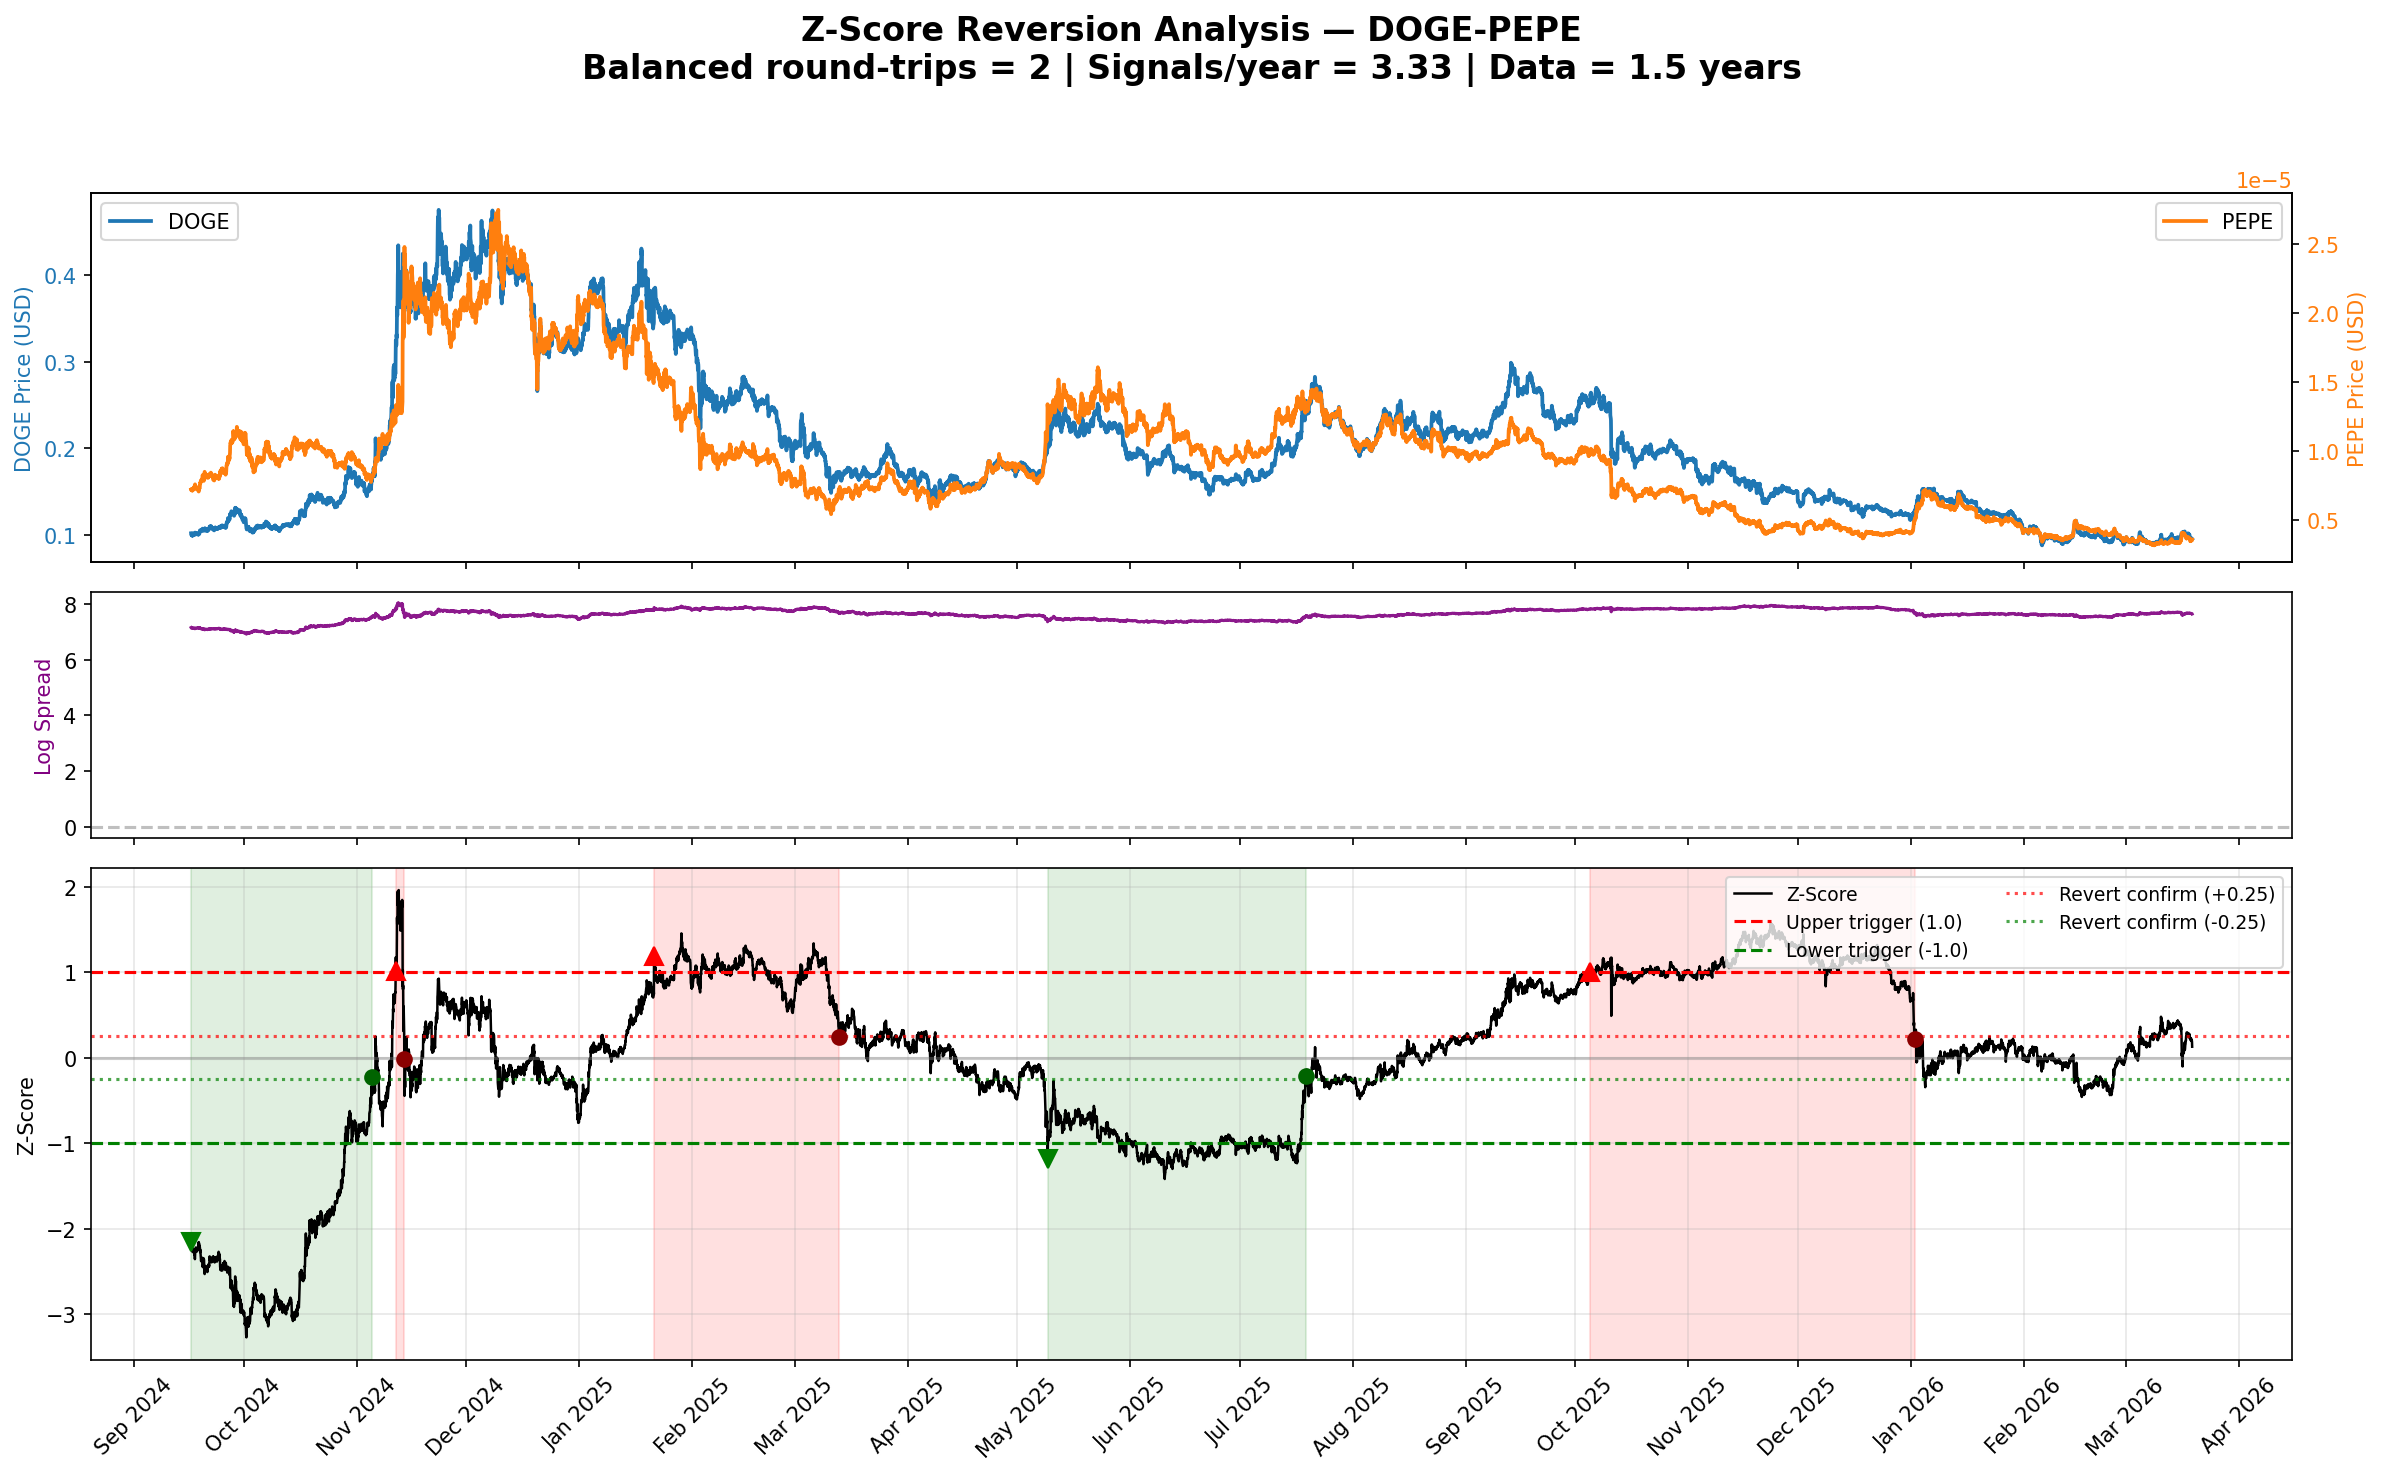
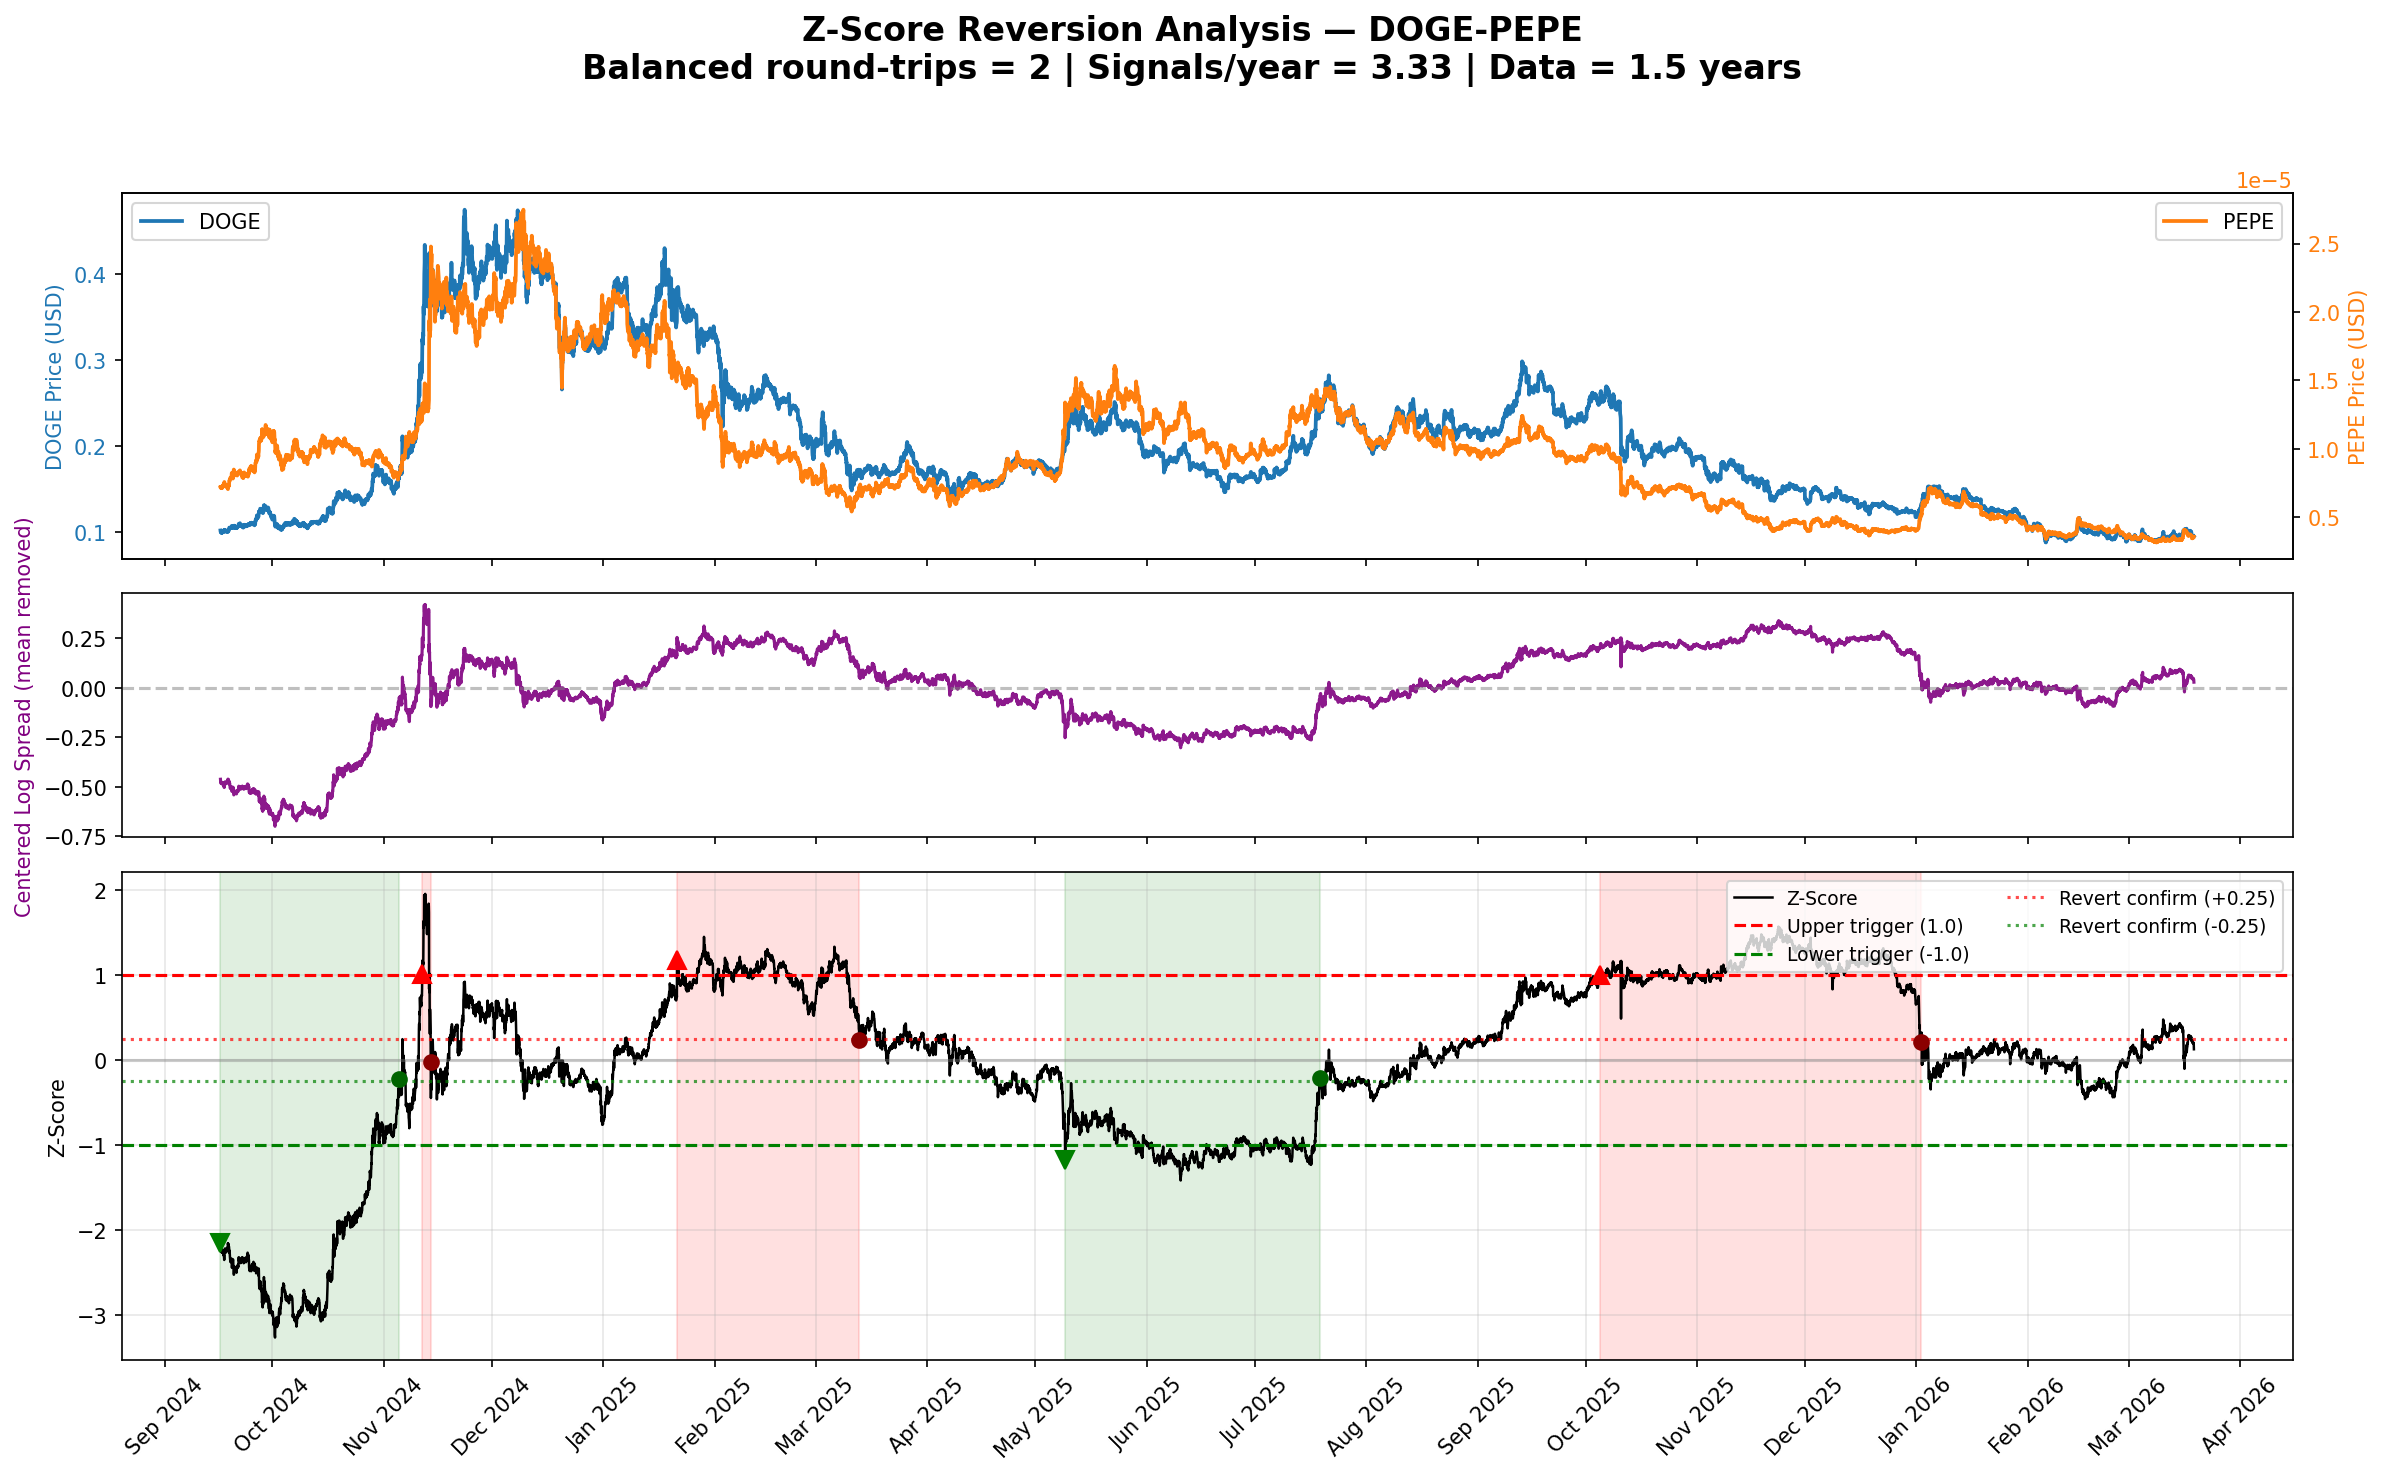
show hidden movement

diff --git a/src/pcv2/draw_zscore_reversion_metrics_charts.py b/src/pcv2/draw_zscore_reversion_metrics_charts.py
@@ -2,7 +2,7 @@
 """
 Standalone Z-Score Reversion Visualizer (March 2026) — UPDATED
 ===============================================================
-Run for a single pair (NOW NON-INTERACTIVE BY DEFAULT):
+Run for a single pair (NON-INTERACTIVE BY DEFAULT):
     python draw_zscore_reversion_metrics_charts.py ETH BTC
 
 Or with options:
@@ -10,11 +10,11 @@ Or with options:
         --z-upper 1.5 --revert-confirm 0.1 --months 18 \
         --dpi 300 --show
 
-This version:
-  • DEFAULT: no interactive window (just saves PNG silently — no pause)
-  • DEFAULT DPI lowered to 150 (faster save, still crisp)
-  • Added optional --show flag if you ever want the plot to pop up
-  • 100% same numbers & logic as before
+NEW in this version:
+  • Middle panel now shows CENTERED log spread (mean removed)
+    → you can finally see the "hidden" tiny movements!
+  • Y-label updated to "Centered Log Spread (mean removed)"
+  • Everything else identical to previous version (silent save, DPI=150 default)
 """
 
 import argparse
@@ -38,7 +38,7 @@ from get_zscore_reversion_metrics import (
 
 # ====================== PLOTTING CONFIG ======================
 DEFAULT_FIGSIZE = (16, 10)
-DEFAULT_DPI = 150          # ← CHANGED TO 150 as requested
+DEFAULT_DPI = 150
 DEFAULT_SAVE_PATH = "zscore_reversion_plot_{sym1}_{sym2}.png"
 
 
@@ -110,11 +110,10 @@ def draw_zscore_reversion_chart(
     figsize: Tuple[int, int] = DEFAULT_FIGSIZE,
     dpi: int = DEFAULT_DPI,
     save_path: Optional[str] = None,
-    show: bool = False,          # ← CHANGED DEFAULT TO False (no pause)
+    show: bool = False,
 ) -> None:
     """
-    Full visualization pipeline. Reuses the official metrics function
-    and adds rich Matplotlib charting.
+    Full visualization pipeline with centered log spread (shows the hidden movement).
     """
     sym1, sym2 = sym1.upper(), sym2.upper()
 
@@ -186,10 +185,11 @@ def draw_zscore_reversion_chart(
     ax1.legend(loc='upper left')
     ax1_twin.legend(loc='upper right')
 
-    # Panel 2: Spread
+    # Panel 2: Spread — NOW CENTERED (shows the hidden movement!)
     ax2 = axs[1]
-    ax2.plot(spread.index, spread, color='purple', linewidth=1.5, alpha=0.9)
-    ax2.set_ylabel("Log Spread", color='purple')
+    centered_spread = spread - spread.mean()
+    ax2.plot(spread.index, centered_spread, color='purple', linewidth=1.5, alpha=0.9)
+    ax2.set_ylabel("Centered Log Spread (mean removed)", color='purple')
     ax2.axhline(0, color='gray', linestyle='--', alpha=0.5)
 
     # Panel 3: Z-Score (the star of the show)
@@ -258,7 +258,7 @@ def main():
                         help="Lookback months (default: 18)")
     parser.add_argument("--figsize", nargs=2, type=int, default=DEFAULT_FIGSIZE,
                         help="Figure size in inches (width height), default 16 10")
-    parser.add_argument("--dpi", type=int, default=DEFAULT_DPI,   # ← NOW DEFAULTS TO 150
+    parser.add_argument("--dpi", type=int, default=DEFAULT_DPI,
                         help="DPI for saved PNG (default: 150)")
     parser.add_argument("--show", action="store_true",
                         help="Show interactive plot window (default: OFF — silent save only)")
@@ -276,7 +276,7 @@ def main():
         figsize=tuple(args.figsize),
         dpi=args.dpi,
         save_path=args.output,
-        show=args.show,          # now controlled by --show flag
+        show=args.show,
     )
 
     # Also print the exact same metrics table for quick reference
